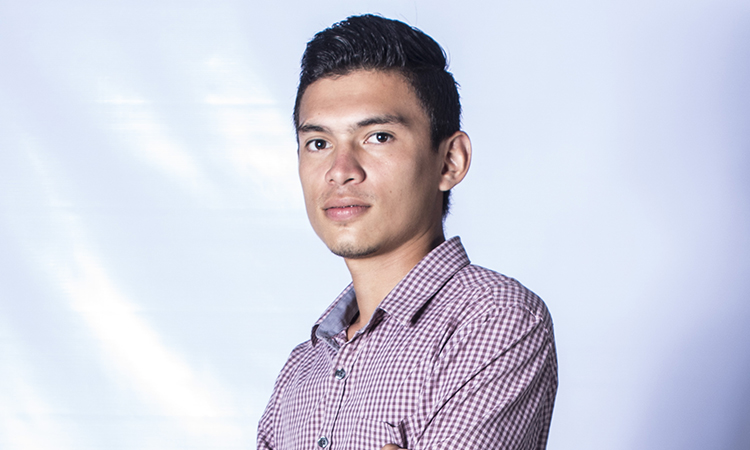
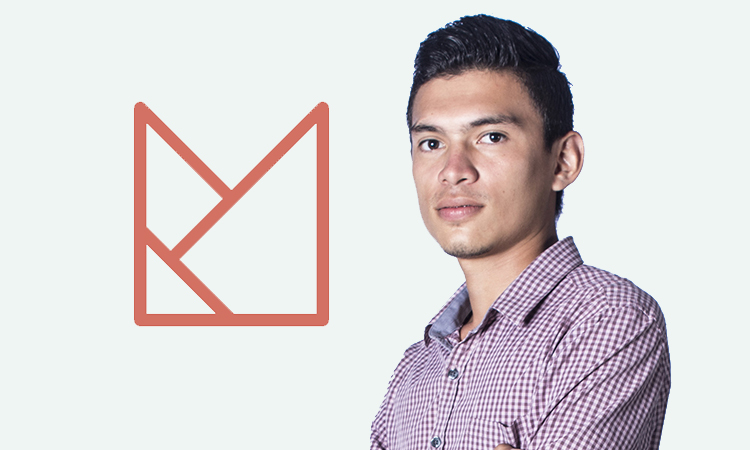
Nuevo index

diff --git a/index.html b/index.html
@@ -23,7 +23,7 @@
         <li class="sidebar-brand">
           <a href="#">Home</a>
         </li>
-        <li><a href="views/Hector.html">Hector</a></li>
+        <li><a href="views/Hector.html">H&eacute;ctor</a></li>
         <li><a href="views/Judith.html">Judith</a></li>
         <li><a href="views/Manuel.html">Manuel</a></li>      
       </ul>
@@ -40,14 +40,14 @@
       <article class="container">
         <div class="row">
           <div class="col-md-5">
-            <img src="img/logos.jpg" class="adaptar img-fluid">
+            <img src="img/logos.png" class="adaptar img-fluid">
           </div>
           <div class="col-md-7">
             <h2 class="section-heading">Tres perspectivas, una pasi&oacute;n</h2>
             <br>
-            <p class="">Tenemos una misma meta, tres estilos diferentes, desde el minimalismo, hasta la pasi&oacute;n y la ilustraci&oacute;n con fantas&iacute;a, todas juntas para ofrecer algo que sin duda es innovador y totalmente fresco. Cada uno de nosotros tiene habilidades que se complementan &iacute;ntegramente para trabajar con profesionalismo.</p>
+            <p class="texto">Tenemos una misma meta, tres estilos diferentes, desde el minimalismo, hasta la pasi&oacute;n y la ilustraci&oacute;n con fantas&iacute;a, todas juntas para ofrecer algo que sin duda es innovador y totalmente fresco. Cada uno de nosotros tiene habilidades que se complementan &iacute;ntegramente para trabajar con profesionalismo.</p>
             <br>
-            <p class="">Somos j&oacute;venes que poseen visi&oacute;n para ver hacia el futuro y expresarla en cada uno de nuestros trabajos, demostrando no s&oacute;lo conocimientos del diseño, sino tambi&eacute; valores en los que nuestra filosof&iacute;a est&aacute; basada.</p>
+            <p class="texto">Somos j&oacute;venes que poseen visi&oacute;n para ver hacia el futuro y expresarla en cada uno de nuestros trabajos, demostrando no s&oacute;lo conocimientos del diseño, sino tambi&eacute; valores en los que nuestra filosof&iacute;a est&aacute; basada.</p>
             <br>
 
           </div>
@@ -60,7 +60,7 @@
             <div class="card-body">
               <h4 class="section-heading">H&eacute;ctor Pleitez</h4>
               <h6 class="text-muted">Diseñador Gr&aacute;fico</h6>
-              <p>Especialista en la creaci&oacute;n y 
+              <p class="texto-miembros">Especialista en la creaci&oacute;n y 
             diseño de personajes para cuentos y obras de 
             ficci&oacute;n variadas.</p>
             </div>
@@ -75,7 +75,7 @@
           <div class="card-body">
             <h4 class="section-heading">Judith Palacios</h4>
             <h6 class="text-muted">Diseñadora gr&aacute;fica y Escritora</h6>
-            <p>Amor, pasión, delicadeza y feminidad en escritura en prosa, especialista en diseño publicitario y editorial.</p>
+            <p class="texto-miembros">Amor, pasión, delicadeza y feminidad en escritura en prosa, especialista en diseño publicitario y editorial.</p>
           </div>
           <div class="card-footer">
             <a href="views/Judith.html">Saber m&aacute;s</a>
@@ -88,7 +88,7 @@
         <div class="card-body">
           <h4 class="section-heading">Manuel Montano</h4>
           <h6 class="text-muted">Diseñador gr&aacute;fico</h6>
-          <p>Especialista en diseño editorial, se destaca en el trabajo con tipografía y un estilo minimalista.</p>
+          <p class="texto-miembros">Especialista en diseño editorial, se destaca en el trabajo con tipografía y un estilo minimalista.</p>
         </div>
         <div class="card-footer">
           <a href="views/Manuel.html">Saber m&aacute;s</a>
@@ -101,7 +101,7 @@
 </article>
 <br>
 <footer class="py-5 bg-dark">
-  <div class="container">
+  <div class="container-footer">
     <p class="m-0 text-center text-white">Tecnolog&iacute;a Aplicada al Diseño Gr&aacute;fico 2017</p>
   </div>
 </footer>

diff --git a/css/style.css b/css/style.css
@@ -8,6 +8,7 @@
 body, html {
   width: 100%;
   height: 100%;
+  background: #0c0e2c;
 }
 .nopadding{
 padding: 0 !important;
@@ -153,4 +154,49 @@ ul > li > a{
 
 .hamb-top2{
   background: rgb(255, 255, 255) !important ;
+}
+
+.navbar-inverse{
+  background: #151c4e !important;
+}
+
+.sidebar-nav li:first-child a {
+    color: #fff;
+    background-color: #091040;
+}
+
+.sidebar-nav li:nth-child(2):before {
+    background-color: #313592 !important;   
+}
+
+.sidebar-nav li:nth-child(3):before {
+    background-color: #573ca4;   
+}
+.sidebar-nav li:nth-child(4):before {
+    background-color: #5e5bd5;   
+}
+
+.texto{
+  color: rgb(255, 255, 255) !important;
+}
+
+.section-heading{
+  color: rgb(255, 255, 255) !important;
+}
+
+.container{
+  background: rgb(57, 84, 151);
+}
+
+#page-content-wrapper{
+  padding-top: 0px !important;
+  padding-bottom: 0px !important;
+}
+
+.bg-dark{
+  background: rgb(40, 63, 137) !important;
+}
+
+.texto-miembros{
+  color: rgb(13, 26, 67);
 }

diff --git a/css/menu-sidebar.css b/css/menu-sidebar.css
@@ -178,7 +178,7 @@ html { height: 100%;}
   display: block;
   width: 100px;
   font-size: 14px;
-  color: #fff;
+  color: #ffffff;
   line-height: 32px;
   text-align: center;
   opacity: 0;
@@ -206,7 +206,7 @@ html { height: 100%;}
 .hamburger.is-closed .hamb-top,
 .hamburger.is-closed .hamb-middle,
 .hamburger.is-closed .hamb-bottom {
-  background-color: #1a1a1a;
+  background-color: #ffffff;
 }
 .hamburger.is-closed .hamb-top { 
   top: 5px; 
@@ -232,7 +232,7 @@ html { height: 100%;}
 .hamburger.is-open .hamb-top,
 .hamburger.is-open .hamb-middle,
 .hamburger.is-open .hamb-bottom {
-  background-color: #1a1a1a;
+  background-color: #ffffff;
 }
 .hamburger.is-open .hamb-top,
 .hamburger.is-open .hamb-bottom {
@@ -253,7 +253,7 @@ html { height: 100%;}
   display: block;
   width: 100px;
   font-size: 14px;
-  color: #fff;
+  color: #ffffff;
   line-height: 32px;
   text-align: center;
   opacity: 0;
